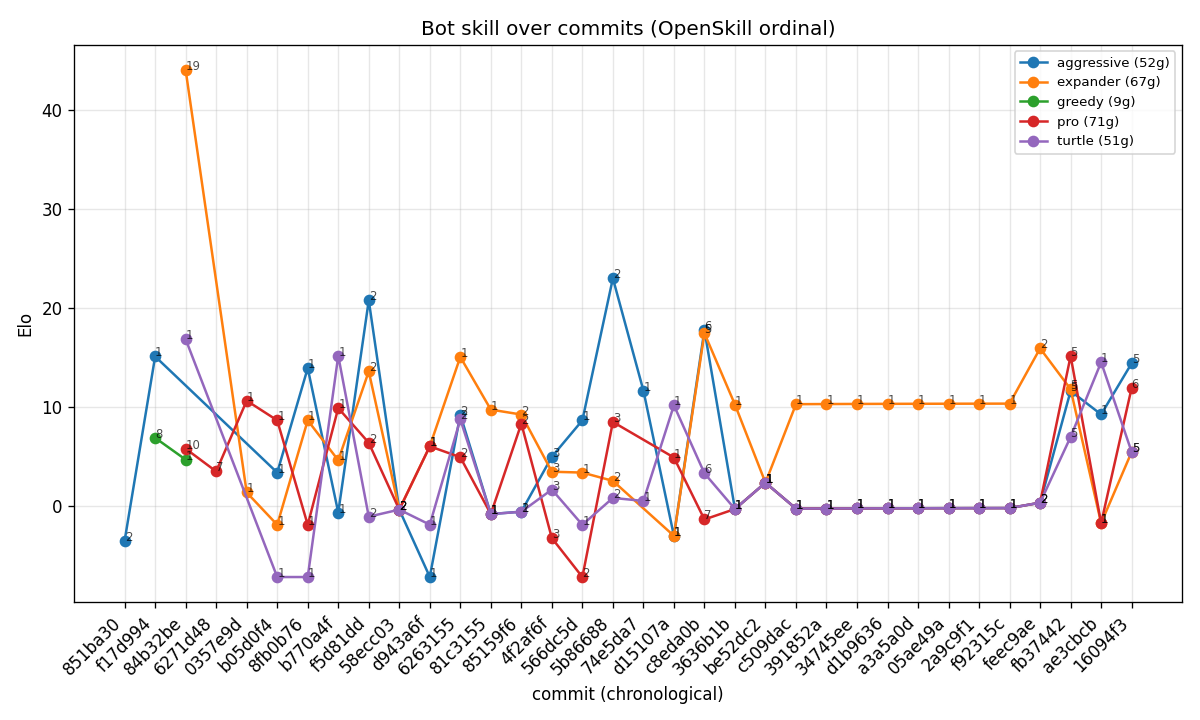
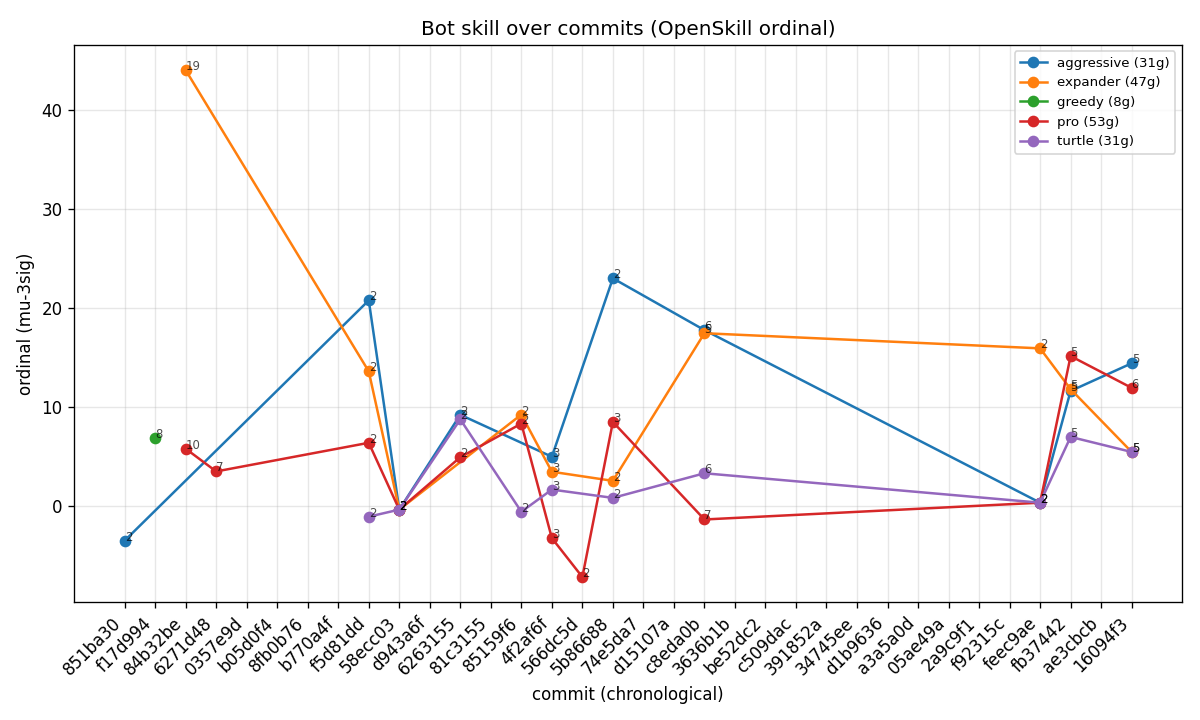
Ordinal plot cleanup (min-2g filter)

diff --git a/benchmarks/plot_elo.py b/benchmarks/plot_elo.py
@@ -42,6 +42,9 @@ def main(argv=None) -> int:
     short = [s[:7] for s in commits]
     plt.figure(figsize=(10, 6))
     for name, pts in sorted(by_bot.items()):
+        pts = [p for p in pts if p[3] >= 2]
+        if not pts:
+            continue
         pts = sorted(pts)
         xs = [idx[sha] for _, sha, _, _ in pts]
         ys = [e for _, _, e, _ in pts]
@@ -51,7 +54,7 @@ def main(argv=None) -> int:
             plt.annotate(str(g), (x, y), fontsize=7, alpha=0.7)
     plt.xticks(range(len(commits)), short, rotation=45, ha="right")
     plt.xlabel("commit (chronological)")
-    plt.ylabel("Elo")
+    plt.ylabel("ordinal (mu-3sig)")
     plt.title("Bot skill over commits (OpenSkill ordinal)")
     plt.legend(fontsize=8)
     plt.grid(alpha=0.3)
